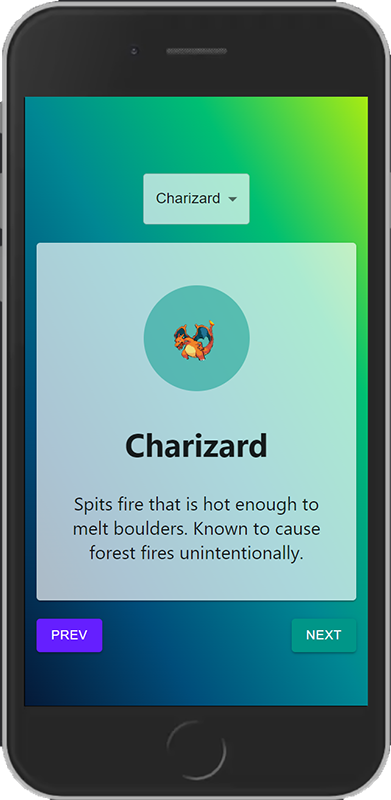
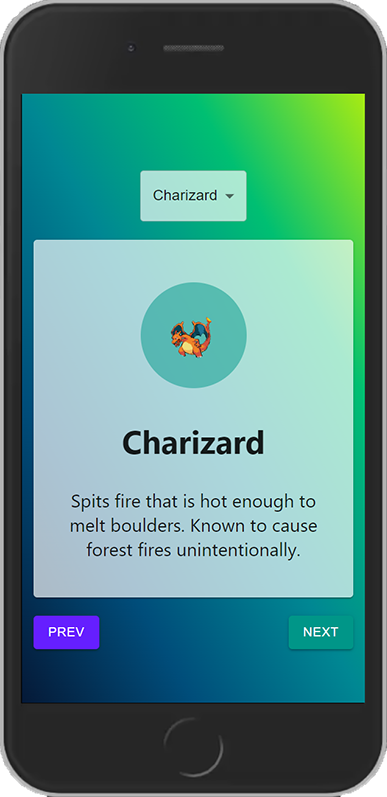
added updated image

diff --git a/README.md b/README.md
@@ -6,7 +6,7 @@ It allows to explore the 150 OG Pokemons by selecting them from a dropdown or na
 The state is managed with the useReducer hook and passed to the components with React Context.
 The list of Pokemon is fetched from [PokeAPI](https://pokeapi.co/).
 
-<img src="https://github.com/MichiyoYo/react-pokedex/blob/main/demo/pokedex.png" width="150">
+<img src="https://github.com/MichiyoYo/react-pokedex/blob/main/demo/pokedex.png" width="250">
 
 ## Tech Stack
 
